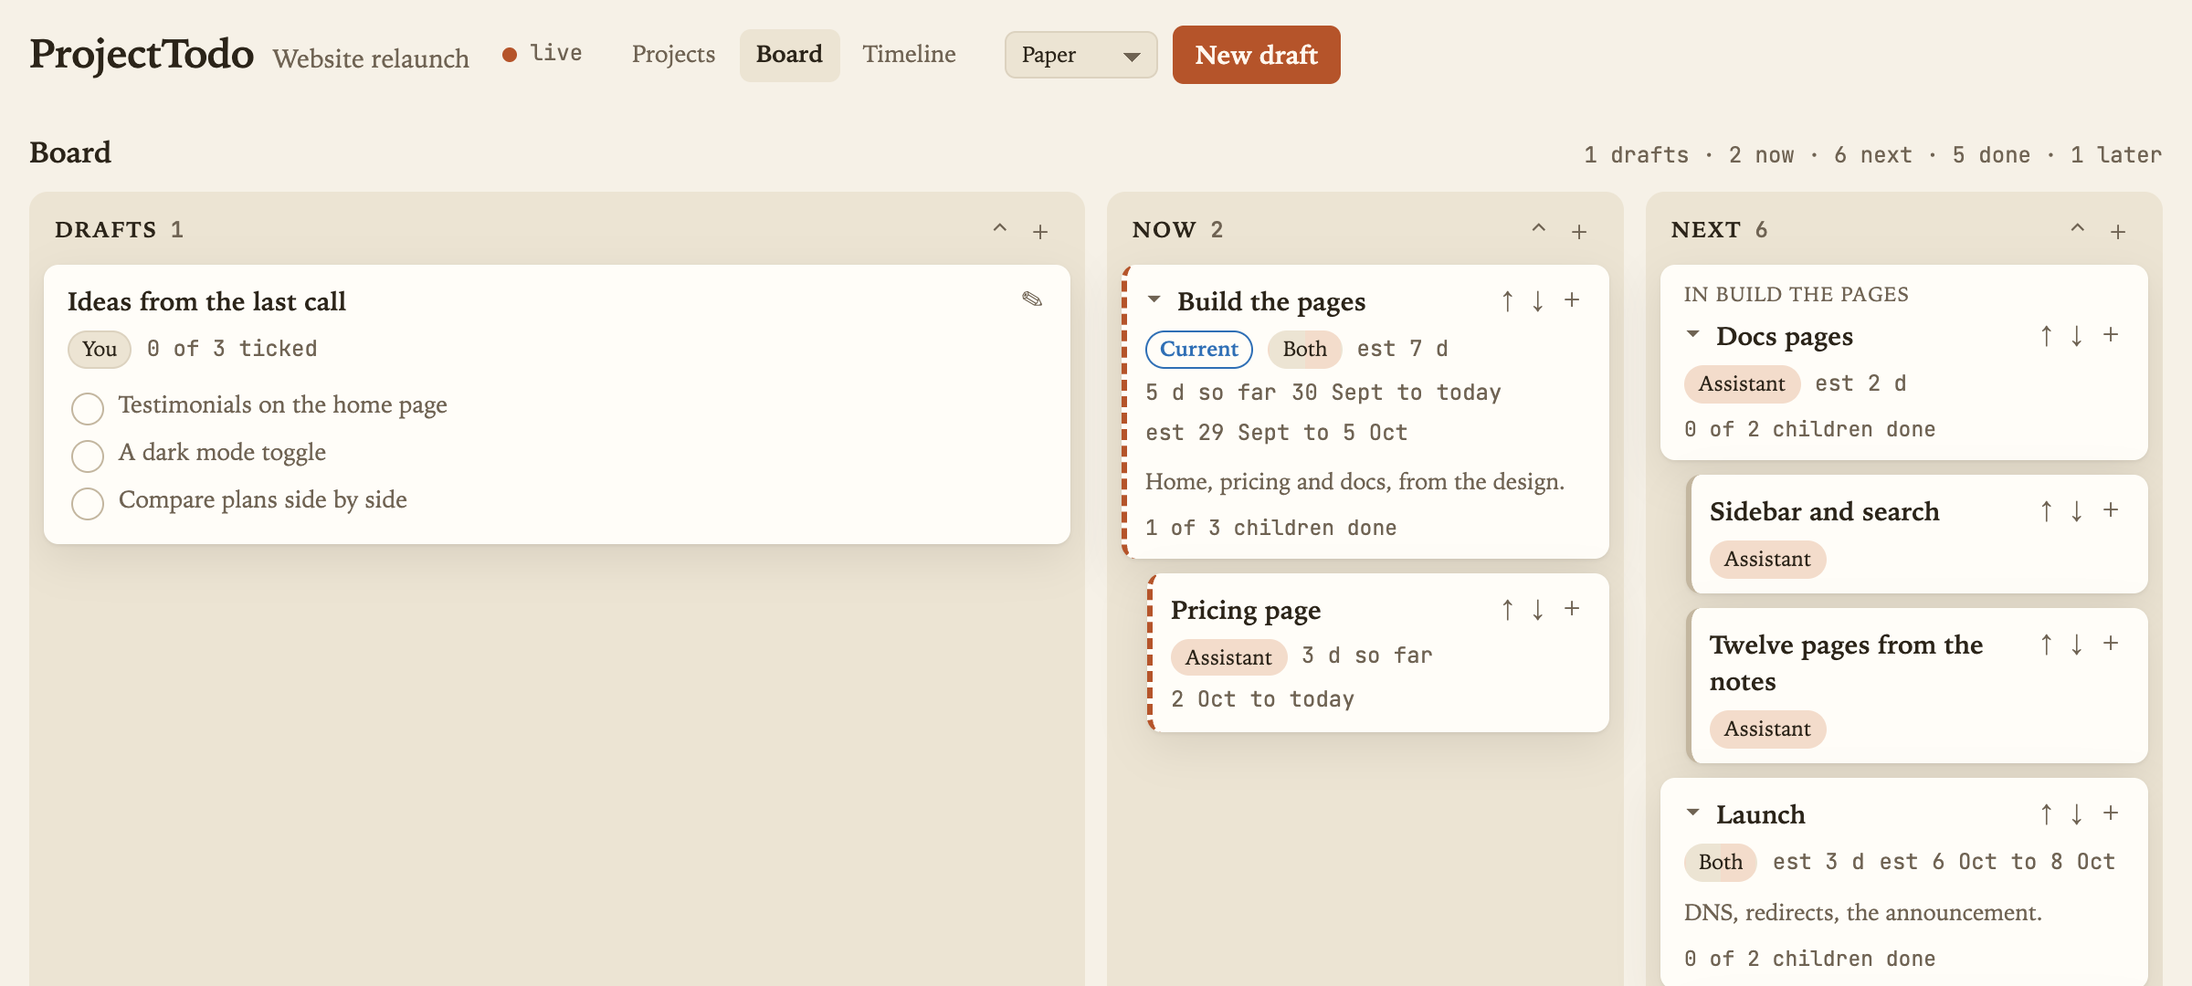
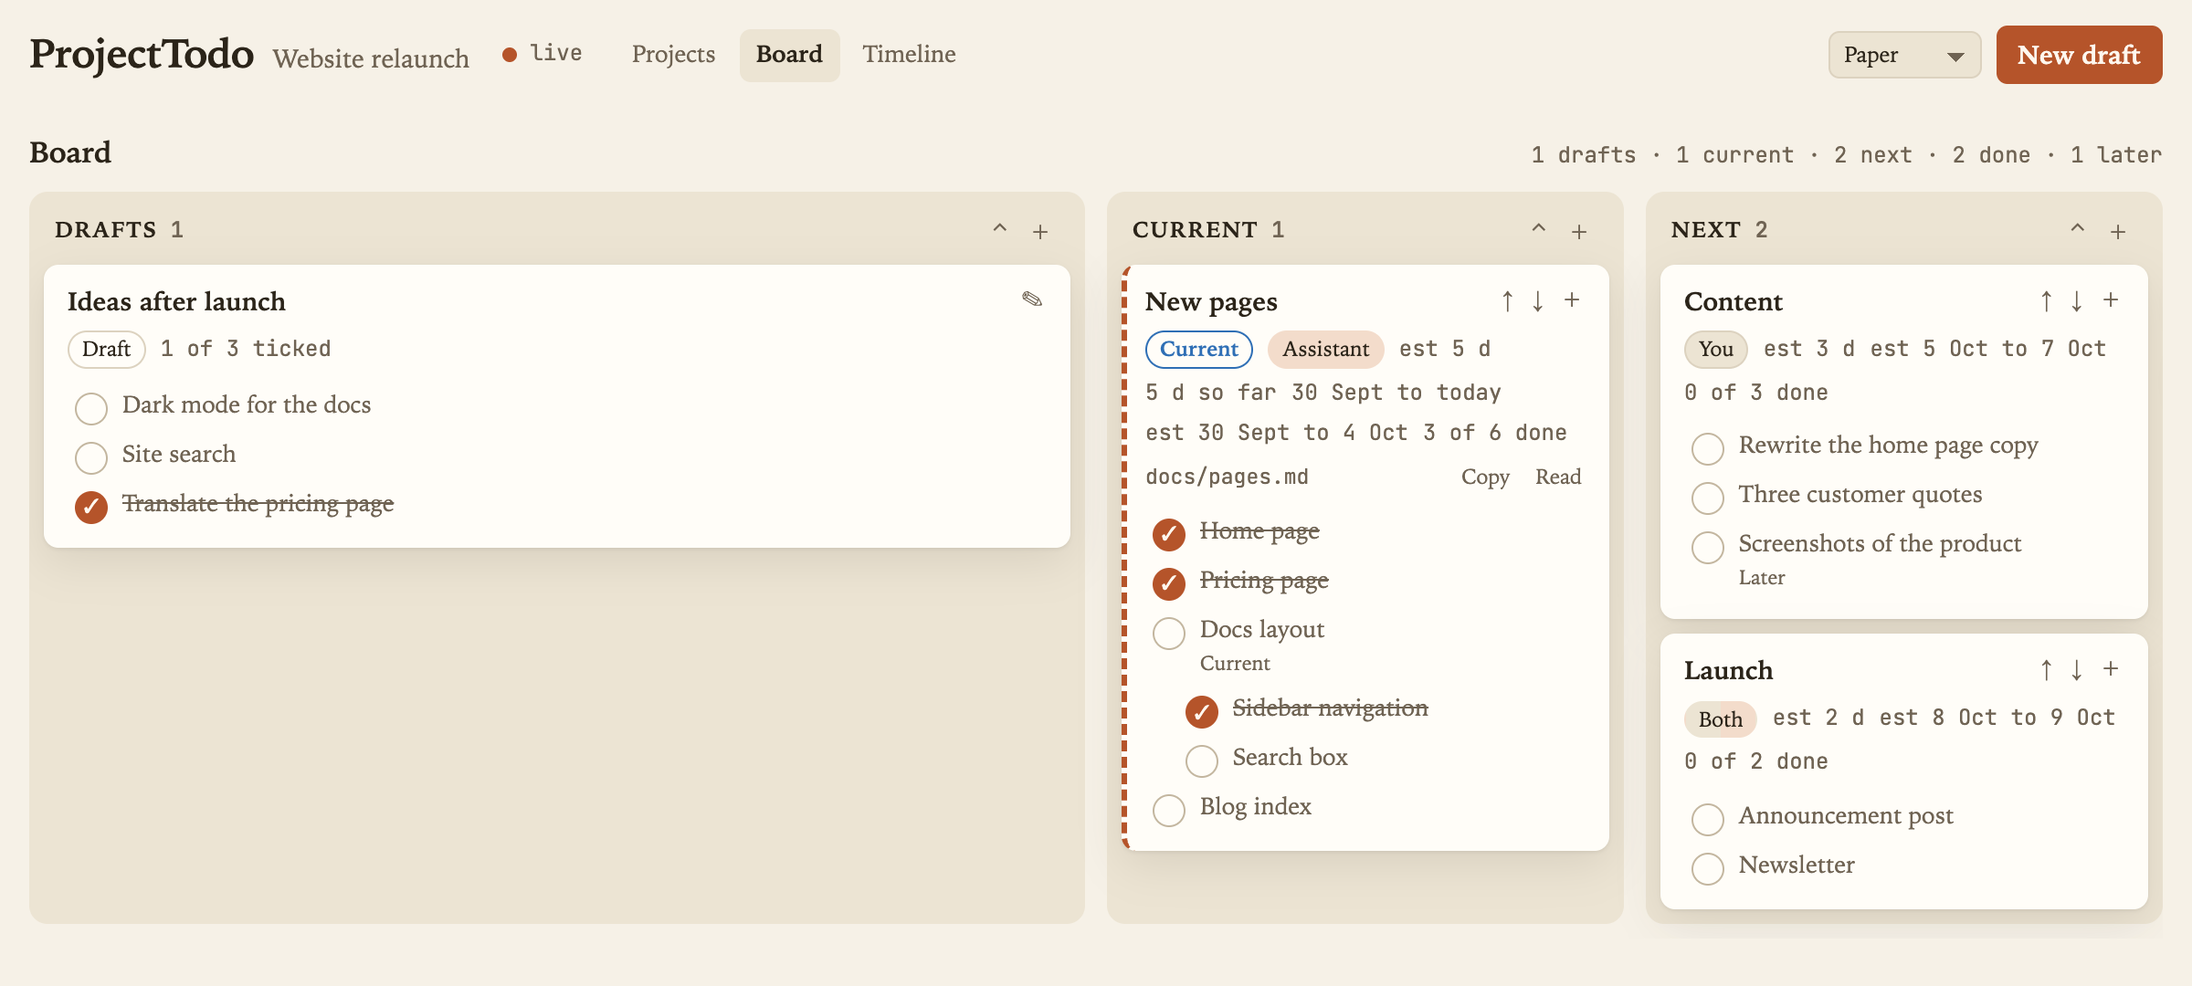
Update README and HTML for terminology consistency; change 'Now' to 'Current' in multiple locations. Adjust local storage handling for fold states and improve to-do completion logic. Retake screenshots for updated visuals.

diff --git a/public/index.html b/public/index.html
@@ -15,7 +15,7 @@ A to-do:
   order:         number            position among its siblings, ascending (10, 20, 30 ...)
   status:        "draft" | "todo" | "doing" | "done" | "deferred"
                                    draft = jotted down to discuss (a draft group and its lines), todo = Next,
-                                   doing = Now, done = Done, deferred = Later
+                                   doing = Current, done = Done, deferred = Later
   owner:         "user" | "assistant" | "both" | null
   doc:           string | null     a markdown file, relative to the docs folder
   estimate_days: number | null
@@ -44,12 +44,10 @@ is the end of the last finished to-do under it.
 .dm-list .note-text { font-size: 15px; line-height: 1.5; min-height: 22px; }
 .dm-list .note-check { margin-top: 4px; }
 .dm-help { font-size: 12px; color: var(--muted); margin: 8px 0 0; }
-.card.group .notes { margin-top: 6px; }
-.card.group .note-line { padding: 3px 2px; }
+.card.group .notes { margin-top: 6px; color: var(--muted); }
 .card.group .note-line { cursor: pointer; border-radius: 6px; padding: 3px 4px; margin: 0 -4px; }
 .card.group .note-line:hover { background: var(--surface-2); }
 .card.group .note-text { font-size: 13px; }
-.card-notes { margin-top: 6px; color: var(--muted); font-size: 12.5px; line-height: 1.45; display: -webkit-box; -webkit-line-clamp: 2; -webkit-box-orient: vertical; overflow: hidden; }
 .note-line.done .note-text { text-decoration: line-through; color: var(--muted); }
 .note-check.on { background: var(--accent); border-color: var(--accent); color: var(--accent-ink); }
 .note-check.static { cursor: default; }
@@ -237,7 +235,7 @@ section { margin-top: 26px; }
 .counts { font-family: var(--font-mono); font-size: 12px; color: var(--muted); white-space: nowrap; }
 
 /* Board */
-/* Four units across: Drafts takes two, Now and Next one each; Done and Later sit beyond the right edge and scroll in. */
+/* Four units across: Drafts takes two, Current and Next one each; Done and Later sit beyond the right edge and scroll in. */
 .board { display: grid; grid-auto-flow: column; grid-auto-columns: calc((100% - 36px) / 4); gap: 12px; overflow-x: auto; padding-bottom: 8px; scroll-snap-type: x proximity; }
 .lane { scroll-snap-align: start; }
 .lane[data-lane="draft"] { grid-column: span 2; }
@@ -251,20 +249,15 @@ section { margin-top: 26px; }
 .cards { display: flex; flex-direction: column; gap: 8px; min-height: 48px; flex: 1; border-radius: 8px; }
 .lane.over .cards { outline: 2px dashed var(--accent); outline-offset: 3px; }
 .card { background: var(--surface); border-radius: 8px; padding: 9px 10px 8px; box-shadow: var(--shadow); cursor: pointer; min-width: 0; border-left: 3px solid transparent; }
-.card .card-top, .card .eyebrow { cursor: pointer; }
+.card .card-top { cursor: pointer; }
 .card.compact { padding: 6px 8px 6px 10px; }
 .card.compact .card-top { align-items: center; gap: 8px; }
 .card.compact .card-title { font-weight: 500; white-space: nowrap; overflow: hidden; text-overflow: ellipsis; padding-top: 0; }
 .card.compact .when { color: var(--muted); font-family: var(--font-mono); font-size: 11.5px; white-space: nowrap; }
 .card:hover { outline: 1px solid var(--line-strong); }
 .card.dragging { opacity: 0.45; }
-.card.child { border-left-color: var(--line-strong); }
 .card.done { border-left-color: var(--accent); }
 .card.doing { border-left-color: var(--accent); border-left-style: dashed; }
-.card[data-depth="1"] { margin-left: 14px; }
-.card[data-depth="2"] { margin-left: 28px; }
-.card[data-depth="3"] { margin-left: 42px; }
-.eyebrow { font-size: 11px; color: var(--muted); text-transform: uppercase; letter-spacing: 0.05em; margin-bottom: 3px; overflow: hidden; text-overflow: ellipsis; white-space: nowrap; }
 .card-top { display: flex; align-items: flex-start; gap: 4px; }
 .card-title { font-weight: 600; flex: 1; min-width: 0; overflow-wrap: anywhere; padding-top: 1px; }
 .card.deferred .card-title { color: var(--muted); font-weight: 500; }
@@ -281,8 +274,6 @@ section { margin-top: 26px; }
 .docline { display: flex; align-items: center; gap: 4px; margin-top: 6px; font-family: var(--font-mono); font-size: 11.5px; color: var(--muted); min-width: 0; }
 .docline code { overflow: hidden; text-overflow: ellipsis; white-space: nowrap; min-width: 0; flex: 1; }
 .docline .icon-btn { font-size: 11.5px; font-family: var(--font-ui); }
-.notes { margin-top: 6px; color: var(--muted); font-size: 12.5px; display: -webkit-box; -webkit-line-clamp: 2; -webkit-box-orient: vertical; overflow: hidden; }
-.kids { margin-top: 6px; font-size: 11.5px; color: var(--muted); font-family: var(--font-mono); }
 .empty { color: var(--muted); font-size: 13px; padding: 10px 6px; }
 
 /* Timeline */
@@ -517,7 +508,7 @@ svg.tl { display: block; font-family: var(--font-ui); }
       <label class="f check" id="ed-current-wrap" hidden><input id="ed-current" type="checkbox"><span>Current main to-do (starts today)</span></label>
       <label class="f">Status<select id="ed-status" name="status">
         <option value="draft">Draft (to discuss)</option>
-        <option value="doing">Now (in progress)</option>
+        <option value="doing">Current (in progress)</option>
         <option value="todo">Next (queued)</option>
         <option value="done">Done</option>
         <option value="deferred">Later (deferred)</option>
@@ -568,7 +559,7 @@ svg.tl { display: block; font-family: var(--font-ui); }
 
   const LANES = [
     { key: "draft", label: "Drafts" },
-    { key: "doing", label: "Now" },
+    { key: "doing", label: "Current" },
     { key: "todo", label: "Next" },
     { key: "done", label: "Done" },
     { key: "deferred", label: "Later" },
@@ -582,7 +573,6 @@ svg.tl { display: block; font-family: var(--font-ui); }
     items: [],
     loaded: false,
     readOnly: false,
-    collapsed: new Set(),
     project: null,       // the open project's id (from the path)
     projects: [],
     view: "projects",
@@ -677,14 +667,13 @@ svg.tl { display: block; font-family: var(--font-ui); }
     b.textContent = text || "";
   }
 
-  // ---------- per-viewer collapse memory ----------
+  // ---------- per-viewer fold memory ----------
   try {
-    try { const f = JSON.parse(localStorage.getItem("projecttodo-fold") || "{}"); state.foldCard = new Map(Object.entries(f.card || {})); state.foldLane = new Map(Object.entries(f.lane || {})); } catch (e) { /* fine */ }
-    const raw = localStorage.getItem("projecttodo-collapsed");
-    if (raw) JSON.parse(raw).forEach(id => state.collapsed.add(id));
+    const f = JSON.parse(localStorage.getItem("projecttodo-fold") || "{}");
+    state.foldCard = new Map(Object.entries(f.card || {}));
+    state.foldLane = new Map(Object.entries(f.lane || {}));
   } catch (e) { /* storage unavailable: fine */ }
-  function persistCollapsed() {
-    try { localStorage.setItem("projecttodo-collapsed", JSON.stringify([...state.collapsed])); } catch (e) { /* fine */ }
+  function persistFolds() {
     try { localStorage.setItem("projecttodo-fold", JSON.stringify({ card: Object.fromEntries(state.foldCard), lane: Object.fromEntries(state.foldLane) })); } catch (e) { /* fine */ }
   }
 
@@ -763,6 +752,14 @@ svg.tl { display: block; font-family: var(--font-ui); }
   function renumber(map, list) {
     list.forEach((s, i) => { const o = (i + 1) * 10; if (s.order !== o) addPatch(map, s.id, { order: o }); });
   }
+  // A to-do is done only when everything under it is done: the rule for a drop into Done, the status field and the ticks.
+  function refuseDone(idx, it) {
+    const open = idx.rows.filter(r => r.anc.includes(it.id) && statusOf(r.it) !== "done");
+    if (!open.length) return false;
+    const t = it.title || "Untitled";
+    toast(open.length === 1 ? `Tick the one open to-do under "${t}" done first.` : `Tick the ${open.length} open to-dos under "${t}" done first.`, true);
+    return true;
+  }
   async function dropItem(id, laneKey, beforeId) {
     const idx = index();
     const it = idx.byId.get(id);
@@ -770,6 +767,7 @@ svg.tl { display: block; font-family: var(--font-ui); }
     const patches = new Map();
     const was = statusOf(it);
     if (was !== laneKey) {
+      if (laneKey === "done" && refuseDone(idx, it)) return;
       const dates = {};
       if (!idx.parentOf(it) && (laneKey === "todo" || laneKey === "doing") && !it.planned_start && !it.planned_end) Object.assign(dates, defaultDates(idx, it));
       if (!idx.parentOf(it) && laneKey === "done" && !it.actual_done) { const last = latestDescendantDone(idx, it); if (last) dates.actual_done = last; }
@@ -806,11 +804,6 @@ svg.tl { display: block; font-family: var(--font-ui); }
     const patches = new Map();
     renumber(patches, sibs);
     if (patches.size) await applyPatches(patches);
-  }
-  function toggleCollapse(id) {
-    if (state.collapsed.has(id)) state.collapsed.delete(id); else state.collapsed.add(id);
-    persistCollapsed();
-    render();
   }
 
   // ---------- clipboard ----------
@@ -858,13 +851,13 @@ svg.tl { display: block; font-family: var(--font-ui); }
   const isFolded = (id, laneKey) => (state.foldCard.get(id) || state.foldLane.get(laneKey) || (laneKey === "done" || laneKey === "deferred" ? "closed" : "open")) === "closed";
   function toggleFold(id, laneKey) {
     state.foldCard.set(id, isFolded(id, laneKey) ? "open" : "closed");
-    persistCollapsed();
+    persistFolds();
     render();
   }
   function foldLane(laneKey, closed, ids) {
     state.foldLane.set(laneKey, closed ? "closed" : "open");
     for (const id of ids) state.foldCard.delete(id);
-    persistCollapsed();
+    persistFolds();
     render();
   }
   // What a folded card shows beside its title: when it finished, how long it has been going, or its estimate.
@@ -874,78 +867,6 @@ svg.tl { display: block; font-family: var(--font-ui); }
     if (st === "doing") return d.actual !== null ? `${d.actual} d so far` : (it.actual_start ? `from ${fmtDay(it.actual_start)}` : "");
     if (it.planned_start || it.planned_end) return rangeText(it.planned_start, it.planned_end);
     return d.est !== null ? `est ${d.est} d` : "";
-  }
-  function renderCard(it, idx, ctx) {
-    const st = statusOf(it);
-    const kids = idx.kids.get(it.id) || [];
-    const collapsed = state.collapsed.has(it.id);
-    // A done card is one row (the title and when it finished) until its arrow opens it out.
-    const compact = isFolded(it.id, ctx.lane.key);
-    const card = el("article", {
-      class: `card ${st}${ctx.indent ? " child" : ""}${compact ? " compact" : ""}`,
-      "data-id": it.id,
-      "data-depth": String(Math.min(ctx.indent, 3)),
-      draggable: state.readOnly ? null : "true",
-      tabindex: "0",
-      role: "button",
-      "aria-label": `${it.title || "Untitled"}, ${ctx.lane.label}`,
-    });
-    // The header folds and opens the card; the rest of it opens the form.
-    card.addEventListener("click", e => { if (e.target.closest("button, a")) return; if (compact || e.target.closest(".card-top, .eyebrow")) toggleFold(it.id, ctx.lane.key); else openEditor(it.id); });
-    card.addEventListener("keydown", e => { if (e.key === "Enter" && e.target === card) openEditor(it.id); });
-    card.addEventListener("dragstart", e => {
-      state.dragId = it.id;
-      try { e.dataTransfer.setData("text/plain", it.id); e.dataTransfer.effectAllowed = "move"; } catch (err) { /* fine */ }
-      requestAnimationFrame(() => card.classList.add("dragging"));
-    });
-    card.addEventListener("dragend", () => {
-      card.classList.remove("dragging");
-      state.dragId = null;
-      document.querySelectorAll(".lane.over").forEach(l => l.classList.remove("over"));
-    });
-
-    if (it.parent_id && !ctx.parentInLane && !compact) {
-      const p = idx.byId.get(it.parent_id);
-      if (p) card.append(el("div", { class: "eyebrow", text: `in ${p.title || "untitled"}` }));
-    }
-    const top = el("div", { class: "card-top" });
-    if (ctx.descInLane > 0) {
-      top.append(el("button", { class: "icon-btn tog", type: "button", title: collapsed ? `Show ${ctx.descInLane} hidden` : "Hide children", "aria-expanded": String(!collapsed), onclick: e => { e.stopPropagation(); toggleCollapse(it.id); } }, collapsed ? `▸ ${ctx.descInLane}` : "▾"));
-    }
-    top.append(el("div", { class: "card-title", text: it.title || "Untitled" }));
-    if (compact) {
-      top.append(el("span", { class: "when", text: compactMeta(it, st) }));
-      card.append(top);
-      return card;
-    }
-    const ctl = el("div", { class: "ctl" });
-    if (!state.readOnly) {
-      ctl.append(
-        el("button", { class: "icon-btn", type: "button", title: "Move up among its siblings", "aria-label": "Move up", onclick: e => { e.stopPropagation(); moveSibling(it.id, -1); } }, "↑"),
-        el("button", { class: "icon-btn", type: "button", title: "Move down among its siblings", "aria-label": "Move down", onclick: e => { e.stopPropagation(); moveSibling(it.id, 1); } }, "↓"),
-        el("button", { class: "icon-btn", type: "button", title: "Add a child to-do", "aria-label": "Add a child", onclick: e => { e.stopPropagation(); openDraftModal({ parentId: it.id }); } }, "+"),
-      );
-    }
-    top.append(ctl);
-    card.append(top);
-
-    const meta = el("div", { class: "meta" });
-    const proj = currentProject();
-    if (proj && proj.current_id === it.id) meta.append(el("span", { class: "chip current", text: "Current" }));
-    if (it.owner && OWNER_LABEL[it.owner]) meta.append(el("span", { class: `chip owner-${it.owner}`, text: OWNER_LABEL[it.owner] }));
-    const d = durations(it);
-    if (d.est !== null) meta.append(el("span", { text: `est ${d.est} d` }));
-    if (d.actual !== null) meta.append(el("span", { text: d.open ? `${d.actual} d so far` : `${d.actual} d` }));
-    if (it.actual_start || it.actual_done) meta.append(el("span", { text: rangeText(it.actual_start, it.actual_done, st === "doing" ? "today" : "") }));
-    if (it.planned_start || it.planned_end) meta.append(el("span", { text: "est " + rangeText(it.planned_start, it.planned_end) }));
-    if (meta.childNodes.length) card.append(meta);
-    if (it.doc) card.append(docLine(String(it.doc)));
-    if (it.notes) card.append(el("div", { class: "notes", text: String(it.notes) }));
-    if (kids.length) {
-      const done = kids.filter(k => statusOf(k) === "done").length;
-      card.append(el("div", { class: "kids", text: `${done} of ${kids.length} children done` }));
-    }
-    return card;
   }
   function renderBoard(idx) {
     const board = $("#board-lanes");
@@ -1145,7 +1066,7 @@ svg.tl { display: block; font-family: var(--font-ui); }
     const kidsOf = id => orderedKids(idx, id).filter(k => okId.has(k.id));
     const mains = kidsOf(null);
     if (!mains.length) {
-      wrap.replaceChildren(el("div", { class: "empty", text: state.loaded ? "No main to-dos yet. Move a draft to Next or Now and it appears here." : "Loading…" }));
+      wrap.replaceChildren(el("div", { class: "empty", text: state.loaded ? "No main to-dos yet. Move a draft to Next or Current and it appears here." : "Loading…" }));
       $("#tl-counts").textContent = "";
       return;
     }
@@ -1452,6 +1373,7 @@ svg.tl { display: block; font-family: var(--font-ui); }
       if (ok) { closeEditor(); toast(`Added ${v.title}`); }
     } else {
       const before = state.editing.snapshot;
+      if (v.status === "done" && statusOf(before) !== "done" && refuseDone(idx, before)) return;
       const patch = {};
       for (const k of Object.keys(v)) {
         const a = before[k] === undefined ? null : before[k];
@@ -1741,7 +1663,6 @@ svg.tl { display: block; font-family: var(--font-ui); }
     if (lines.length) meta.append(el("span", { class: "mono", text: `${done} of ${lines.length} ${isDraft ? "ticked" : "done"}` }));
     if (meta.childNodes.length) card.append(meta);
     if (it.doc) card.append(docLine(String(it.doc)));
-    if (it.notes) card.append(el("div", { class: "card-notes", text: String(it.notes) }));
     // everything under it, as a list
     if (lines.length) {
       const list = el("div", { class: "notes" });
@@ -1751,8 +1672,9 @@ svg.tl { display: block; font-family: var(--font-ui); }
         const tick = el("button", { class: `note-check${isDone ? " on" : ""}`, type: "button", title: isDone ? (isDraft ? "Back to draft" : "Back to Next") : "Tick it done", "aria-label": isDone ? "Done" : "Not done", onclick: async e => {
           e.stopPropagation();
           if (state.readOnly) return;
-          const p = new Map();
           const to = isDone ? (isDraft ? "draft" : "todo") : "done";
+          if (to === "done" && refuseDone(index(), r.it)) return;
+          const p = new Map();
           addPatch(p, r.it.id, { status: to, ...statusDates(r.it, to), updated_at: nowIso() });
           await applyPatches(p);
         } }, "✓");
@@ -1817,7 +1739,7 @@ svg.tl { display: block; font-family: var(--font-ui); }
         el("div", { class: "card-title", text: p.name }),
         p.description ? el("div", { class: "notes", text: p.description }) : null,
         el("div", { class: "meta" }, el("span", { text: `${c.main || 0} main` }), el("span", { text: `${c.doing || 0} now` }), el("span", { text: `${c.todo || 0} next` }), el("span", { text: `${c.done || 0} done` }), c.draft ? el("span", { text: `${c.draft} drafts` }) : null),
-        p.current ? el("div", { class: "current-line" }, el("b", { text: "Now: " }), p.current.title) : null));
+        p.current ? el("div", { class: "current-line" }, el("b", { text: "Current: " }), p.current.title) : null));
     }
     if (!state.projects.length) box.append(el("div", { class: "empty", text: state.loaded ? "No projects yet. Press New project." : "Loading…" }));
     $("#projects-counts").textContent = state.projects.length ? `${state.projects.length} ${state.projects.length === 1 ? "project" : "projects"}` : "";

diff --git a/README.md b/README.md
@@ -5,15 +5,18 @@ page, a JSON file, no dependencies, and an MCP server so the assistant you alrea
 (Claude Code, Claude Desktop, or anything that speaks MCP) can read and update the same
 to-dos you see.
 
-![The board: Drafts, Now and Next, with Done and Later off to the right](docs/screenshots/board.png)
+![The board: Drafts, Current and Next, with Done and Later off to the right](docs/screenshots/board.png)
 
 - **Projects** on the first page, each a card. Open one for its board.
-- **Board**: lanes for Drafts, Now, Next, Done and Later. Press **+** on Drafts (or
+- **Board**: lanes for Drafts, Current, Next, Done and Later. Press **+** on Drafts (or
   "New draft") and type a title and a list like a notepad: Enter for the next line, Tab
   for a child, Shift+Tab back out. "Add" makes one draft card with those lines. You go
   through the drafts with your assistant; it fills in the details and moves them on.
-  Drag cards between lanes. Click a card's header to fold it to one row or open it
-  again (Done and Later cards start folded); click its body to edit it. Each lane's header has an
+  A card is a main to-do; everything under it is listed inside the card, ticked when
+  done. Drag cards between lanes. Click a card's header to fold it to one row or open
+  it again (Done and Later cards start folded); double-click the header to edit the
+  main to-do, click a line to edit that to-do, and click its circle to tick it done.
+  A card cannot go to Done until every line in it is ticked. Each lane's header has an
   arrow that folds or opens every card in it.
   Drafts is twice as wide as the other lanes; Done and Later sit past the right edge and
   scroll into view.
@@ -99,15 +102,17 @@ A to-do:
 
 ```
 id, project_id, title, notes, parent_id (null = main to-do), next_id (the sibling after it),
-order (10, 20, …), status: draft | todo (Next) | doing (Now) | done | deferred (Later),
+order (10, 20, …), status: draft | todo (Next) | doing (Current) | done | deferred (Later),
 owner: user | assistant | both | null, doc, estimate_days,
 planned_start, planned_end (estimated start and end), actual_start, actual_done (actual start and end),
 created_at, updated_at (ISO 8601), version (kept by the server)
 ```
 
-Dropping a card in Now sets `actual_start` when empty; in Done sets `actual_done` (for a
+Dropping a card in Current sets `actual_start` when empty; in Done sets `actual_done` (for a
 main to-do, the end of its last finished child) and `actual_start` when empty; leaving
-Done clears `actual_done`. A main to-do dropped in Next or Now with no estimated dates
+Done clears `actual_done`. A to-do can be set done only when everything under it is done
+(the page checks this on drops, in the editor and on the ticks; the API does not).
+A main to-do dropped in Next or Current with no estimated dates
 gets them: the day after the estimated end of the main to-do before it, lasting its
 estimate in days (one day if none). Deleting a parent moves its children up one level.
 
